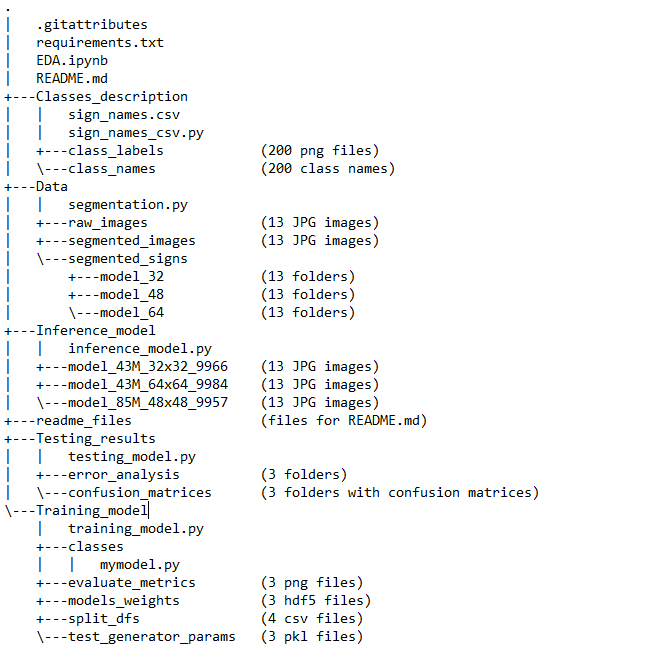
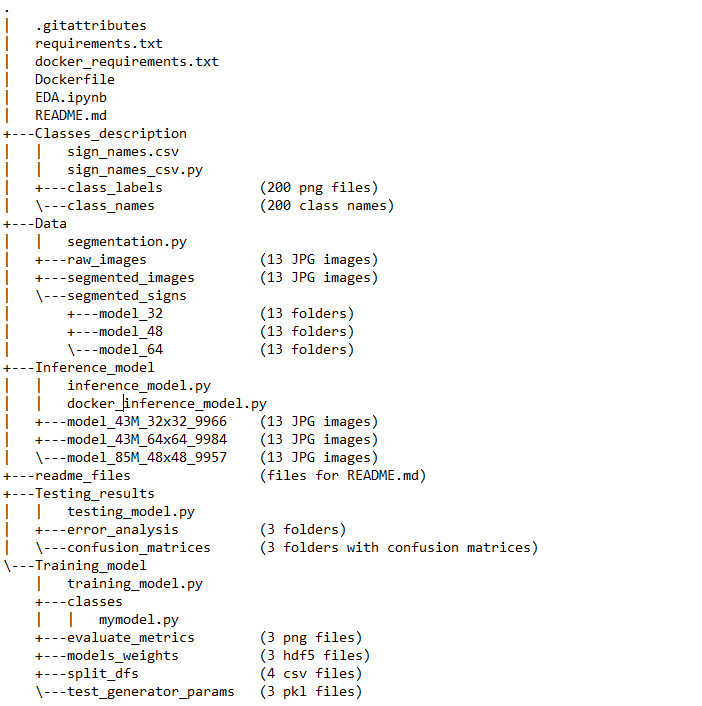
updated structure

Changed region(s): [[0.0, 0.0307, 0.8194, 1.0], [0.3642, 0.3379, 0.5766, 0.5223], [0.3642, 0.2151, 0.607, 0.3072]]

diff --git a/README.md b/README.md
@@ -142,7 +142,7 @@ For training on a video card, I used [tensorflow-gpu==2.10.0](https://www.tensor
 ![](readme_files/enviroment.png)
 
 ## Next stages of development
-
+0. Expand dockerization
 1. Retrain the detectron2 model to improve road sign detection: 
     * Sign "End of the priority road" - not detected;
 2. Add a text/character recognition model for more accurate character classification:
